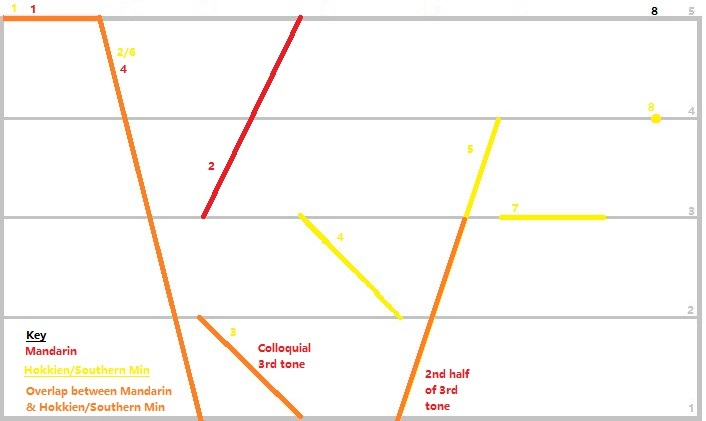
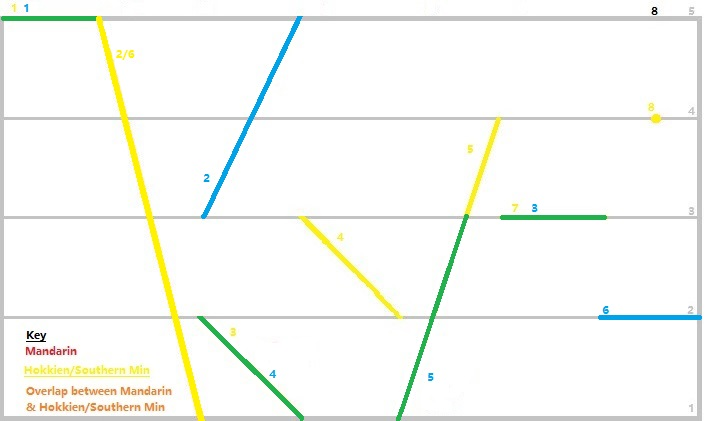
Added cant-hok tone contour diagram, improved on mobile responsiveness of phonology tables

diff --git a/index.html b/index.html
@@ -766,8 +766,14 @@
 										</tr>
 										</table>
 									</section>
-									<section>
-										<table id="cantHok" class="hidden">
+									<section id="cantHok" class="hidden">
+										<section>
+											<h4>Cantonese-Hokkien Tone Contour Diagram</h4>
+											<div class="image fit">
+												<img src="images/cant-hok-tone-contour-diagram.jpg" alt="Cantonese-Hokkien Tone Contour Diagram">
+											</div>
+										</section>
+										<table>
 										
 										<tr>
 											<th scope="col" colspan="5">Cantonese | Hokkien</th>
@@ -1356,16 +1362,16 @@
 										</tr>
 										<tr>
 											<td>ɕ</td>
-											<td>x/ㄒ</td>
+											<td>x<br>ㄒ</td>
 											<td></td>
-											<td>s/ㄒ</td>
+											<td>s<br>ㄒ</td>
 											<td>西</td>
 											<td></td>
-											<td>審 (sím)</td>
+											<td>審<br>(sím)</td>
 										</tr>
 										<tr>
 											<td>f</td>
-											<td colspan="2">f/ㄈ</td>
+											<td colspan="2">f<br>ㄈ</td>
 											<td></td>
 											<td>非</td>
 											<td>虎</td>
@@ -1374,14 +1380,14 @@
 										<tr>
 											<td>h</td>
 											<td></td>
-											<td colspan="2">h/ㄏ</td>
+											<td colspan="2">h<br>ㄏ</td>
 											<td></td>
 											<td>客</td>
-											<td>曉 (hiáu)</td>
+											<td>曉<br>(hiáu)</td>
 										</tr>
 										<tr>
 											<td>j</td>
-											<td>y-/i-</td>
+											<td>y-<br>i-</td>
 											<td>j</td>
 											<td></td>
 											<td>牙</td>
@@ -1395,7 +1401,7 @@
 											<td>k/ㄍ</td>
 											<td>干</td>
 											<td>家</td>
-											<td>見 (kiàn)</td>
+											<td>見<br>(kiàn)</td>
 										</tr>
 										<tr>
 											<td>k̚</td>
@@ -1404,7 +1410,7 @@
 											<td>k/◌ㄍ</td>
 											<td></td>
 											<td>識</td>
-											<td>角 (kak)</td>
+											<td>角<br>(kak)</td>
 										</tr>
 										<tr>
 											<td>kʰ</td>
@@ -1413,7 +1419,7 @@
 											<td>kh/ㄎ</td>
 											<td>口</td>
 											<td>卡</td>
-											<td>溪 (khe)</td>
+											<td>溪<br>(khe)</td>
 										</tr>
 										<tr>
 											<td>kʷ</td>
@@ -1440,14 +1446,14 @@
 											<td>g/ㆣ</td>
 											<td></td>
 											<td></td>
-											<td>義 (gī)</td>
+											<td>義<br>(gī)</td>
 										</tr>
 										<tr>
 											<td>l</td>
 											<td colspan="3">l/ㄌ</td>
 											<td>了</td>
 											<td>落</td>
-											<td>來 (lâi)</td>
+											<td>來<br>(lâi)</td>
 										</tr>
 										<tr>
 											<td>m</td>
@@ -1456,7 +1462,7 @@
 											<td>m/ㄇ/ㆰ/ㆬ</td>
 											<td>明</td>
 											<td>莫</td>
-											<td>媽 (má)<br>暗 (àm)<br>參 (som)</td>
+											<td>媽<br>(má)<br>暗<br>(àm)<br>參<br>(som)</td>
 										</tr>
 										<tr>
 											<td>n</td>
@@ -1465,7 +1471,7 @@
 											<td>n/ㄋ/ㄣ/ㄢ</td>
 											<td>泥</td>
 											<td>男</td>
-											<td>泥 (nî)<br>因 (in)<br>安 (an)</td>
+											<td>泥<br>(nî)<br>因<br>(in)<br>安<br>(an)</td>
 										</tr>
 										<tr>
 											<td>ŋ</td>
@@ -1474,7 +1480,7 @@
 											<td>ng/ㄫ/ㄥ/ㄤ/ㆲ</td>
 											<td>江</td>
 											<td>牙</td>
-											<td>吳 (ngôo)<br>櫻 (ing)<br>幫 (pang)<br>王 (ông)</td>
+											<td>吳<br>(ngôo)<br>櫻<br>(ing)<br>幫<br>(pang)<br>王<br>(ông)</td>
 										</tr>
 										<tr>
 											<td>p</td>
@@ -1482,7 +1488,7 @@
 											<td>p/ㄅ</td>
 											<td>包</td>
 											<td>班</td>
-											<td>布 (pòo)</td>
+											<td>布<br>(pòo)</td>
 										</tr>
 										<tr>
 											<td>p̚</td>
@@ -1491,7 +1497,7 @@
 											<td>p/◌ㄅ</td>
 											<td></td>
 											<td>濕</td>
-											<td>合 (ha̍p)</td>
+											<td>合<br>(ha̍p)</td>
 										</tr>
 										<tr>
 											<td>pʰ</td>
@@ -1500,7 +1506,7 @@
 											<td>ph/ㄆ</td>
 											<td>旁</td>
 											<td>拍</td>
-											<td>普 (phóo)</td>
+											<td>普<br>(phóo)</td>
 										</tr>
 										<tr>
 											<td>b</td>
@@ -1509,7 +1515,7 @@
 											<td>b/ㆠ</td>
 											<td></td>
 											<td></td>
-											<td>明 (bîng)</td>
+											<td>明<br>(bîng)</td>
 										</tr>
 										<tr>
 											<td>d͡z</td>
@@ -1518,7 +1524,7 @@
 											<td rowspan="2">j/ㆡ</td>
 											<td></td>
 											<td></td>
-											<td rowspan="2">熱 (jua̍h)</td>
+											<td rowspan="2">熱<br>(jua̍h)</td>
 										</tr>
 										<tr>
 											<td>z</td>
@@ -1536,7 +1542,7 @@
 											<td rowspan="2">j/ㆢ</td>
 											<td></td>
 											<td></td>
-											<td rowspan="2">日 (ji̍t)</td>
+											<td rowspan="2">日<br>(ji̍t)</td>
 										</tr>
 										<tr>
 											<td>ʑ</td>
@@ -1553,9 +1559,9 @@
 											<td>r-/ㄖ</td>
 											<td></td>
 											<td></td>
-											<td></td>
-											<td></td>
 											<td>日</td>
+											<td></td>
+											<td></td>
 										</tr>										
 										<tr>
 											<td>s</td>
@@ -1564,7 +1570,7 @@
 											<td>s/ㄙ</td>
 											<td>私</td>
 											<td>西</td>
-											<td>三 (sam)</td>
+											<td>三<br>(sam)</td>
 										</tr>
 										<tr>
 											<td>ʂ</td>
@@ -1582,7 +1588,7 @@
 											<td>t/ㄉ</td>
 											<td>端</td>
 											<td>打</td>
-											<td>端 (tuan)</td>
+											<td>端<br>(tuan)</td>
 										</tr>
 										<tr>
 											<td>t̚</td>
@@ -1591,7 +1597,7 @@
 											<td>t/◌ㄉ</td>
 											<td></td>
 											<td>失</td>
-											<td>七 (tshit)</td>
+											<td>七<br>(tshit)</td>
 										</tr>
 										<tr>
 											<td>tʰ</td>
@@ -1600,7 +1606,7 @@
 											<td>-th/ㄊ</td>
 											<td>透</td>
 											<td>拖</td>
-											<td>透 (thò)</td>
+											<td>透<br>(thò)</td>
 										</tr>
 										<tr>
 											<td>t͡ɕ</td>
@@ -1609,7 +1615,7 @@
 											<td>ch/ㄐ</td>
 											<td>叫</td>
 											<td></td>
-											<td>精 (tsing)</td>
+											<td>精<br>(tsing)</td>
 										</tr>
 										<tr>
 											<td>t͡ɕʰ</td>
@@ -1618,7 +1624,7 @@
 											<td>chh/ㄑ</td>
 											<td></td>
 											<td>去</td>
-											<td>市 (tshī)</td>
+											<td>市<br>(tshī)</td>
 										</tr>
 										<tr>
 											<td>t͡s</td>
@@ -1627,7 +1633,7 @@
 											<td>ch/ㄗ</td>
 											<td>子</td>
 											<td>將</td>
-											<td>走 (tsáu)</td>
+											<td>走<br>(tsáu)</td>
 										</tr>
 										<tr>
 											<td>t͡sʰ</td>
@@ -1636,7 +1642,7 @@
 											<td>chh/ㄘ</td>
 											<td>此</td>
 											<td>鏘</td>
-											<td>菜 (tshài)</td>
+											<td>菜<br>(tshài)</td>
 										</tr>
 										<tr>
 											<td>ʈʂ</td>
@@ -1690,7 +1696,7 @@
 											<td>∅ /-h/◌ㄏ</td>
 											<td></td>
 											<td></td>
-											<td>影 (íng, [ʔiə̯ŋ˥˩])<br>桌 (toh)</td>
+											<td>影<br>(íng)<br>桌<br>(toh)</td>
 										</tr>
 										<tr>
 											<td>m̩</td>
@@ -1699,7 +1705,7 @@
 											<td>m/ㆬ</td>
 											<td></td>
 											<td>唔</td>
-											<td>姆 (ḿ)</td>
+											<td>姆<br>(ḿ)</td>
 										</tr>
 										<tr>
 											<td>ŋ̩</td>
@@ -1708,7 +1714,7 @@
 											<td>ng/ㆭ</td>
 											<td></td>
 											<td>五</td>
-											<td>光 (kng)</td>
+											<td>光<br>(kng)</td>
 										</tr>
 										</table>
 									</section>
